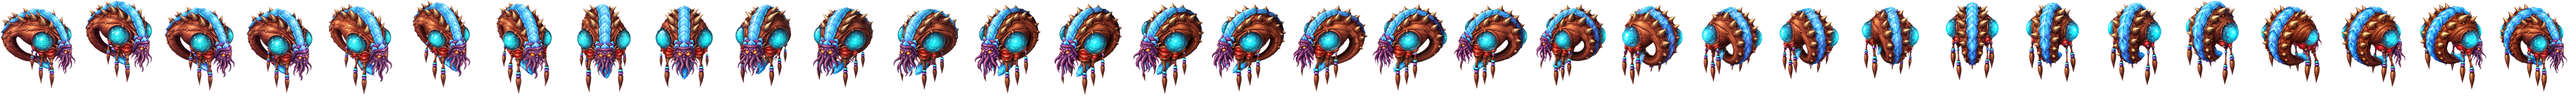
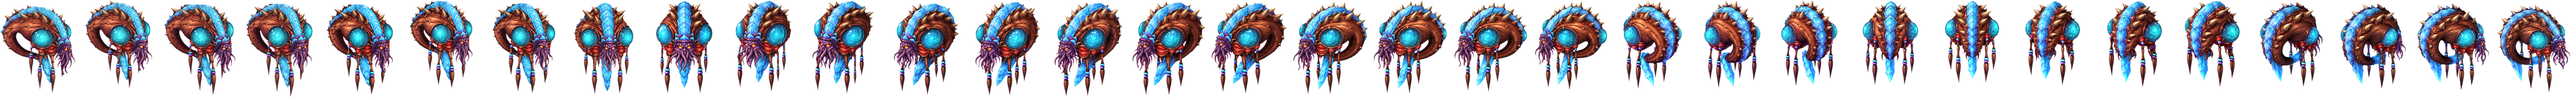
Zafreeti repaint: long legs and crystal tail in all 32 headings
Claude-Session: https://claude.ai/code/session_01SMsyPA2gdtNVrQYtH9AZv3

diff --git a/web/tools/zafreeti-kit/make_batch.py b/web/tools/zafreeti-kit/make_batch.py
@@ -69,20 +69,21 @@ CHECK = """PART CHECKLIST: these parts MUST ALL be visible in EVERY cell, as see
  2. Crystal horn: ONE huge curved translucent blue crystal horn arcing over the top of the body from front to back (a segmented glassy spine seen from above in the front/back views).
  3. Orbs: TWO big glowing cyan glass orbs set in the front of the body, one each side (in side views the near orb is large, the far one a sliver at the edge; from the front both; from behind both at the sides).
  4. Face: a purple octopus-like tentacled face with two small glowing orange eyes at the bottom front, under the orbs. Hidden only when the back is toward the viewer.
- 5. Tassels: 3-4 dangling tendrils/tassels with bead rings and brown tips hanging underneath the body.
- 6. No legs, no wings, no hands.
- Colours: brown leather, cyan orbs, light blue crystal horn, purple tentacles, orange eyes."""
+ 5. LEGS: FOUR long, thin, dark brown-black legs hanging straight down well below the body, each about as long as the body is tall, each with small blue/white bead bands and ending in a pointed tassel tip (portrait: they hang from under the shell on both sides of the face). In side views the near legs are clear and the far ones partly hidden behind; from the front/back all four spread in a row. NOT short stubs, NOT short orange tassels.
+ 6. CRYSTAL TAIL: the blue crystal strip runs over the top of the shell AND continues down past the face as a long faceted translucent blue crystal TAIL hanging below the body (portrait: bottom centre, longer than the face is tall, pointed end). It must be visible below the body in every cell where it is not hidden by the turn (from behind it hangs below the back/underside).
+ 7. No wings, no hands.
+  Colours: brown leather, cyan orbs, light blue crystal horn, purple tentacles, orange eyes."""
 prompt = f"""Use your image generation tool (one call) to create a new image and save it as frames-new.png in the current folder. Do not write code and do not copy or composite pixels from the inputs.
 
 Input 1, frames.png: a 2x2 grid of 4 low-resolution isometric game sprites of the Zafreeti, blown up (OLD design; ignore its colours and shapes). Use it ONLY for facing, position and overall size. Heading in degrees: 0 = facing the screen's RIGHT, turning through 90 = facing toward the viewer (down), 180 = facing the screen's LEFT, 270 = facing away from the viewer showing its back (up); camera is a 3/4 isometric view. Cell headings: top-left {h[0]}, top-right {h[1]}, bottom-left {h[2]}, bottom-right {h[3]}. Look closely at which way each old monster faces (the dangling tentacle face is at the FRONT, the coil of the body trails behind) and match that exactly.
 
-Input 2, style.png: a row of single APPROVED views of the Zafreeti on magenta, left to right: {"; ".join(used)}. This row is NOT the layout of the output. Copy its exact design, colours, painting style and proportions for every new cell: same creature in every cell, rotated to the cell's own heading from frames.png (for in-between headings turn it smoothly between the approved views; never mirror it to face the wrong way).
+Input 2, style.png: a row of single APPROVED views of the Zafreeti on magenta, left to right: {"; ".join(used)}. This row is NOT the layout of the output. Copy its design of the shell, orbs, face, colours and painting style for every new cell, BUT its legs are far too short and its crystal tail is missing: draw the long legs and long crystal tail as in portrait.png and the checklist: same creature in every cell, rotated to the cell's own heading from frames.png (for in-between headings turn it smoothly between the approved views; never mirror it to face the wrong way).
 
 {CHECK}
 
 Input 3, portrait.png: the official concept painting, for design and colour reference only.
 
-Output: ONE image with the same 2x2 grid layout and canvas proportions as frames.png (640x640 or a 2x multiple), each monster at the same position and facing as the matching cell of frames.png, same overall size as the old one (no bigger than about 1.3x). Same scale in all four cells.
+Output: ONE image with the same 2x2 grid layout and canvas proportions as frames.png (640x640 or a 2x multiple), each monster at the same position and facing as the matching cell of frames.png, same overall size as the old one including its long dangling legs (no bigger than about 1.3x); the whole figure, legs and crystal tail included, must fit inside its cell with a margin. Same scale in all four cells.
 Style: hand-painted digital illustration like the portrait, soft shading, rich texture, glossy highlights, NO thick cartoon outline, NOT cute, no pixel art.
 Background everywhere: flat pure magenta #FF00FF. No shadows, no ground, no grid lines, no text, no labels."""
 prompt += back + chr(10) + f"TURN NOTE: each cell is turned only 11.25 degrees further than the one before (these four are {', '.join(h)}); the turn goes the same way in every batch: facing screen RIGHT (0) -> toward the viewer (90) -> screen LEFT (180) -> away, back to the viewer (270) -> screen RIGHT again. Do not turn faster or slower than the old frames show, and never turn the opposite way. Big body, fill the frame." + chr(10) + os.environ.get("NOTE", "")

diff --git a/web/tools/gen-zafreeti-sprite.py b/web/tools/gen-zafreeti-sprite.py
@@ -34,7 +34,7 @@ UP = 4                     # the repaint's scale
 GAMMA = 1.0               # lifts the painting a little so it reads at the real size
 OVER = 1.0                # the horns may run this much past the cell (they are cut at the cell edge), so the body can stay near the old size
 MARGIN = 0.5               # keep this many 1x pixels inside the cell
-AREA = 1.2               # new silhouette area / old silhouette area (1 = the same size as the old sprite)
+AREA = 1.3               # new silhouette area / old silhouette area (1 = the same size as the old sprite)
 
 if len(sys.argv) != 2:
     sys.exit(__doc__)
